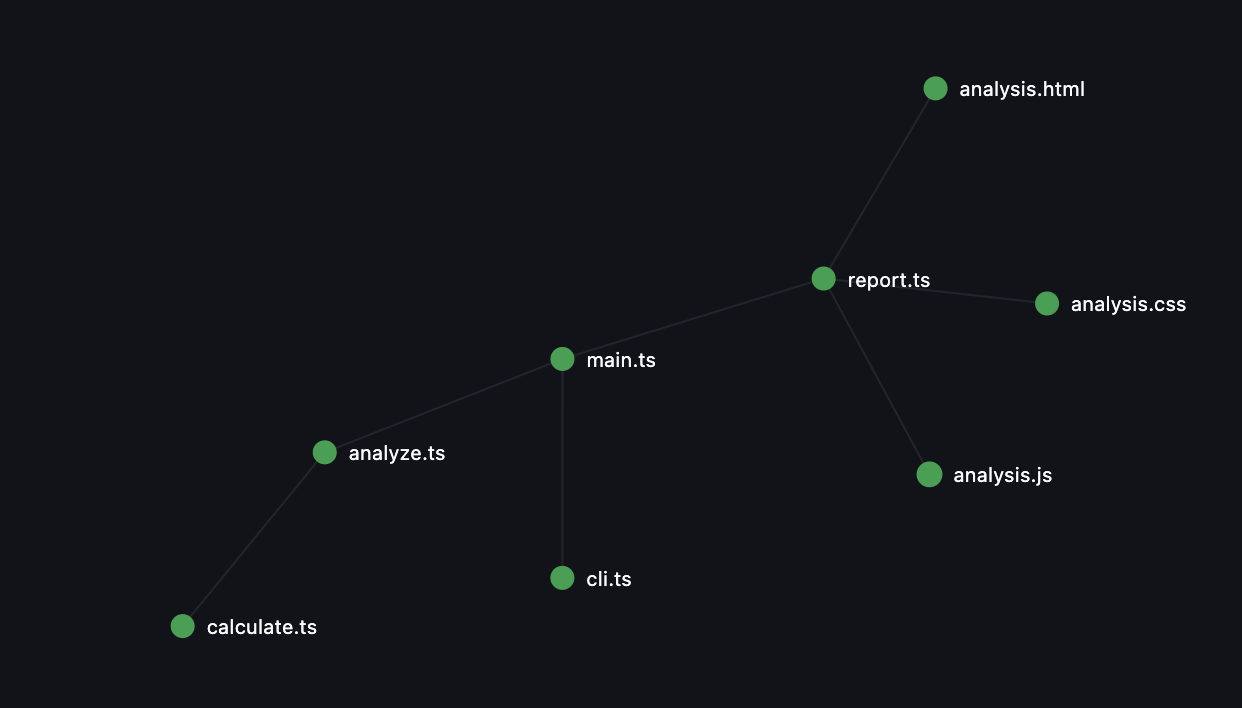
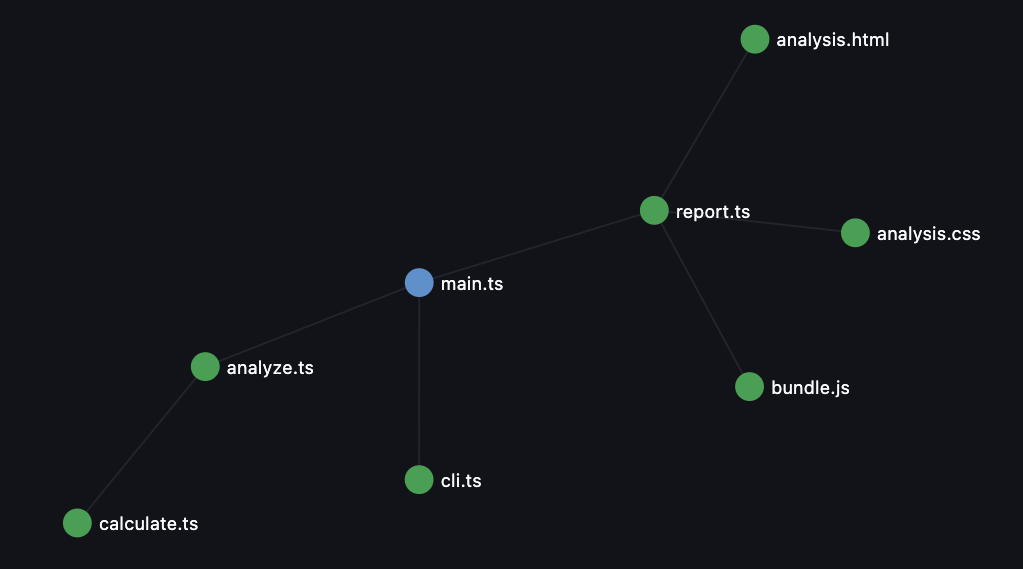
release: Graph Modal

diff --git a/CHANGELOG.md b/CHANGELOG.md
@@ -4,9 +4,22 @@
 
 ## Table of Contents
 
+- [1.3](#130---2025-12-07) - Graph Modal
 - [1.2](#120---2025-12-02) - Improved Tooltips
 - [1.1](#110---2025-11-21) - Graph Improvements
 - [1.0](#101---2025-11-11) - Initial Release
+
+## [1.3.0] - 2025-12-07
+
+### Added
+
+- Added modal to look closer at imports of specific files
+- Added button to make it easier to remove nodes of choice
+
+### Fixed
+
+- Improved build minification
+- Graph nodes use consistent size
 
 ## [1.2.0] - 2025-12-02
 
